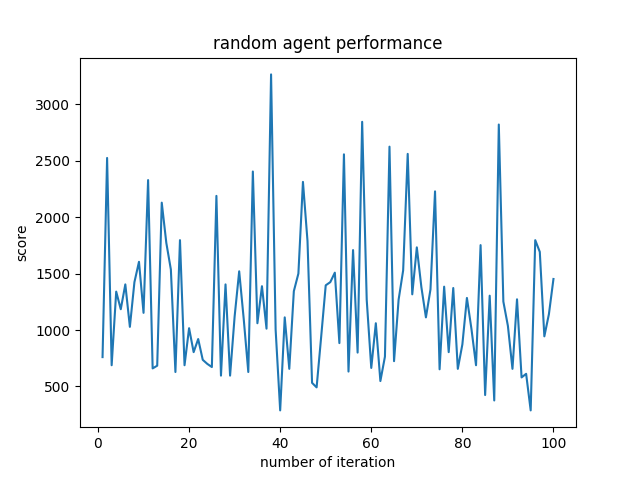
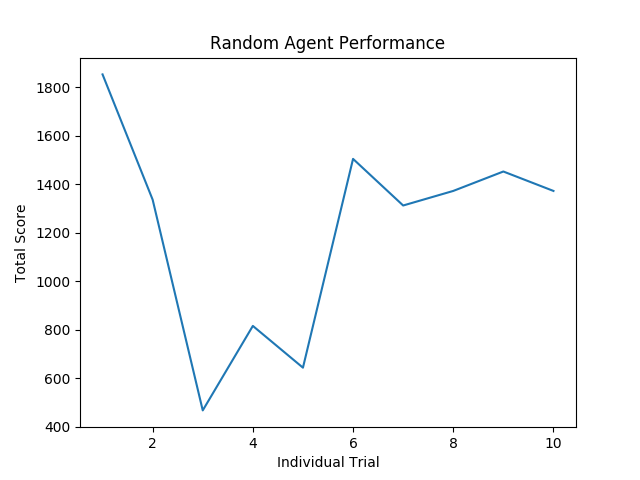
random agent

diff --git a/Random_Agent/puzzle.py b/Random_Agent/puzzle.py
@@ -10,7 +10,7 @@ import constants as c
 
 REFRESH_RATE=10
 SLEEP_TIME=1
-N_ITERATION=100
+N_ITERATION=10
 
 stat=[]
 
@@ -101,7 +101,8 @@ class GameGrid(Frame):
         # key = repr(event.char)
         if self.done==1:
             time.sleep(SLEEP_TIME)
-            stat.append(self.score)
+            max=np.max(np.max(self.matrix))
+            stat.append((self.score,max))
             self.quit()
 
         if key == c.KEY_BACK and len(self.history_matrixs) > 1:
@@ -157,16 +158,17 @@ for i in range(N_ITERATION):
     gamegrid.destroy()
 
 print(stat)
+stat=np.array(stat)
 np.savetxt('random_agent.dat', stat)
 
 x=[i+1 for i in range(len(stat))]
 fig, ax = plt.subplots()
-ax.plot(x, stat)
+ax.plot(x, stat[:,0])
 
-ax.set(xlabel='number of iteration', ylabel='score',
-       title='random agent performance')
+ax.set(xlabel='Individual Trial', ylabel='Total Score',
+       title='Random Agent Performance')
 
 fig.savefig("random_agent.png")
 
-print("Average score is: "+str(np.average(stat)))
-print("Standard deviation is: "+str(np.std(stat)))
+print("Average score is: "+str(np.average(stat[:,0])))
+print("Standard deviation is: "+str(np.std(stat[:,0])))
